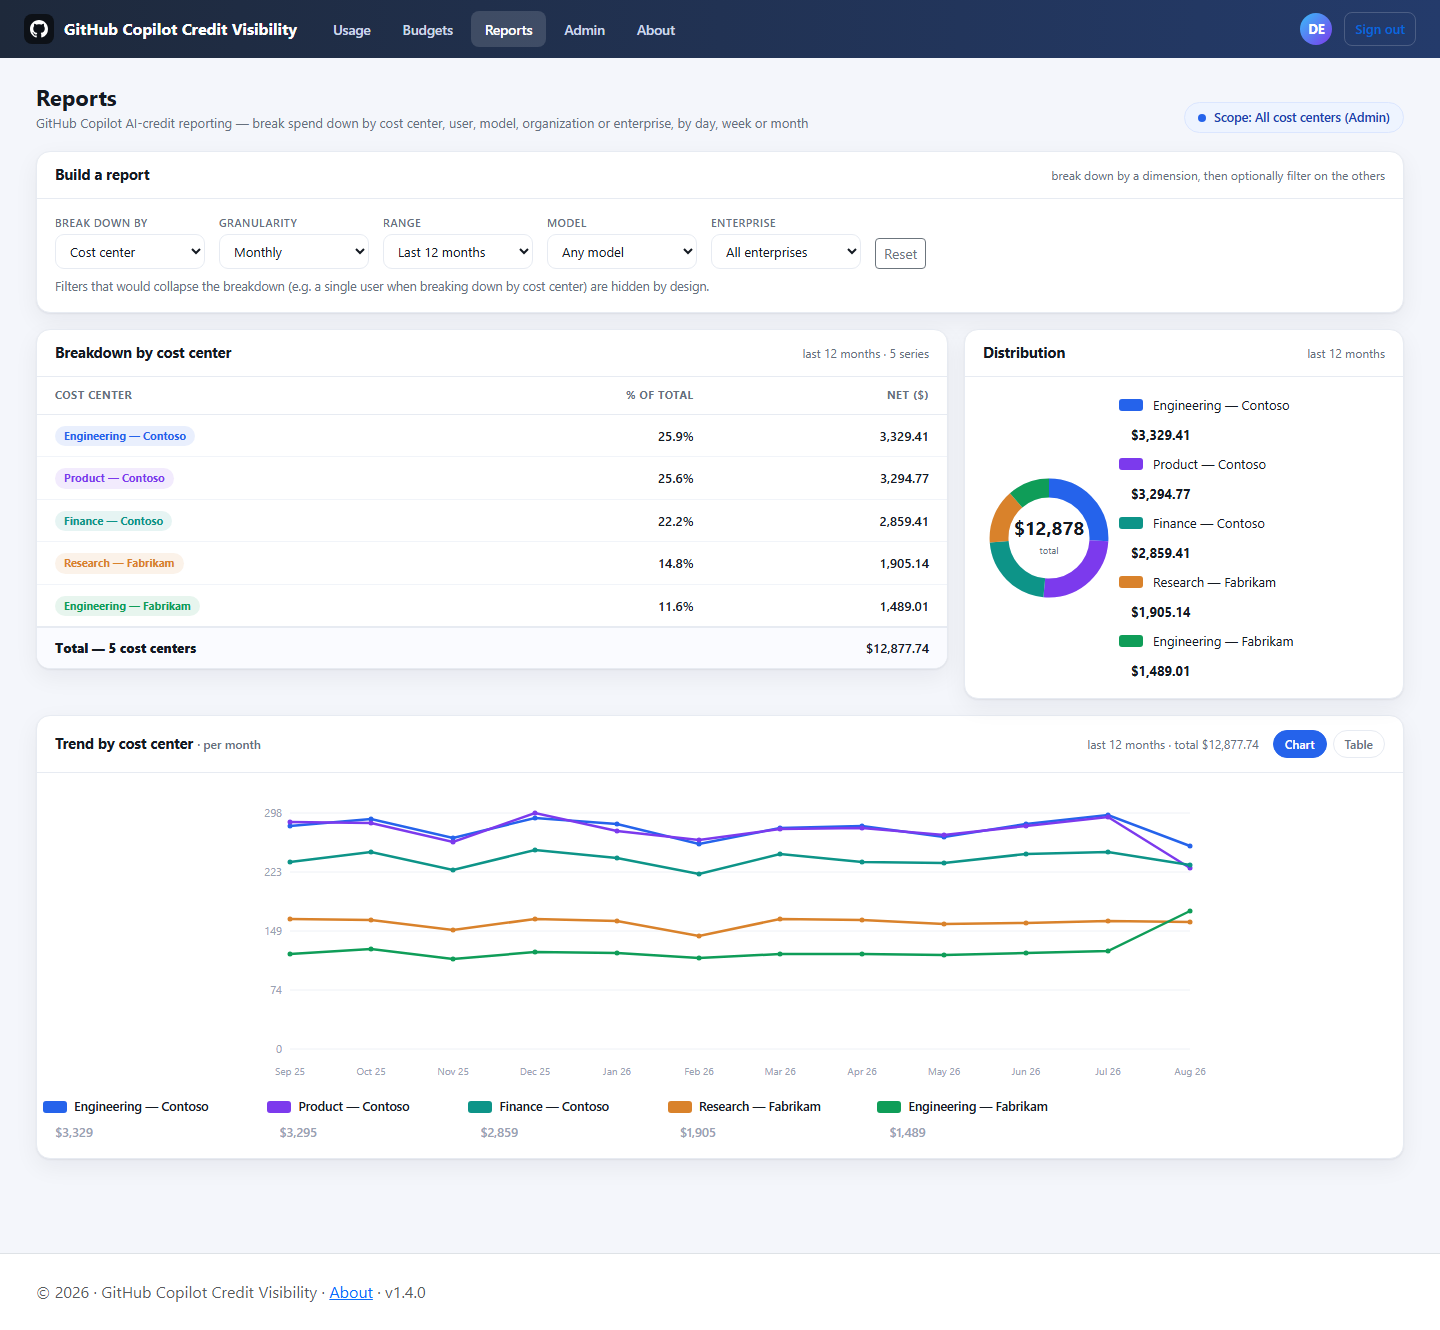
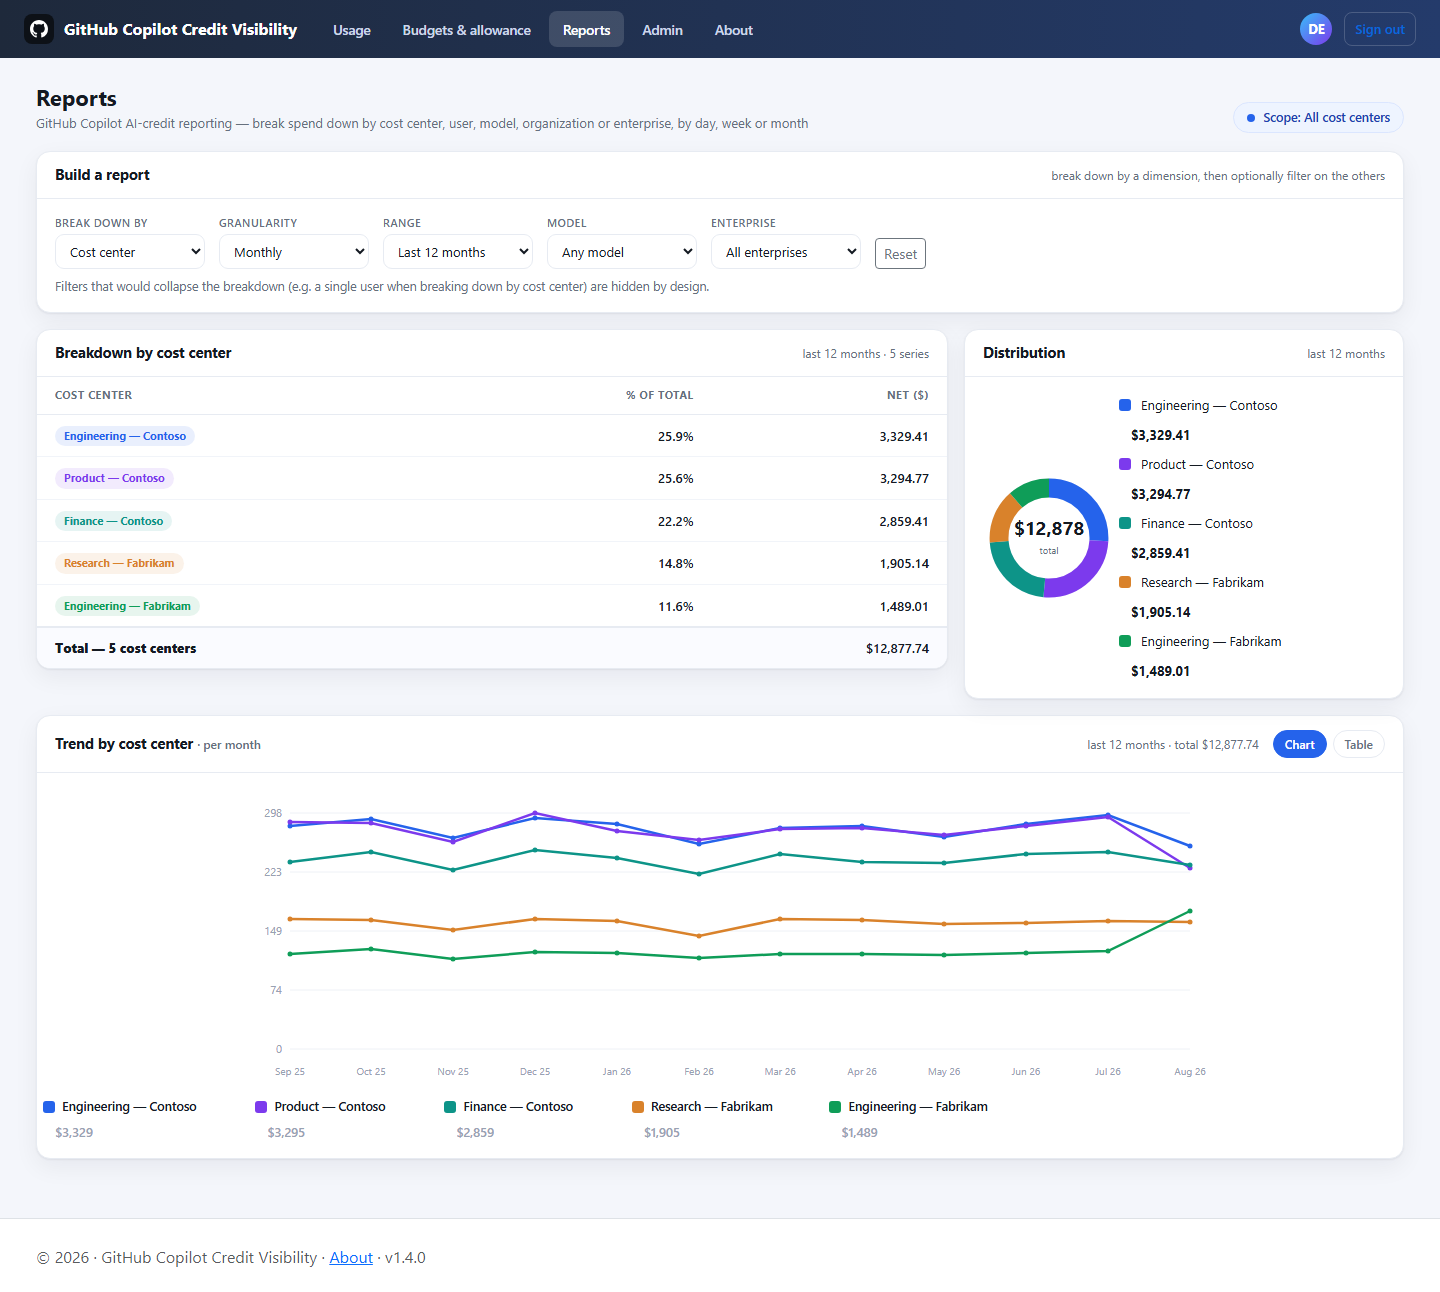
Refresh the screenshots, and fix the legend swatches they exposed
Recaptured dashboard, budgets, admin-mappings and reports against the
built-in mock data. The first three predated the allowance pool and the
role split entirely; reports only needed the scope pill, which no longer
says "(Admin)". Captured headless at the existing 1440 width, each at its
own measured content height so the footer sits under the content rather
than pinned below a screen of dead space.

Looking at the captures caught a real bug that no amount of reading the
markup would have. Legend labels were clipped mid-word — "consumed to da",
"even bu" — because these legend items reuse the class name `row`, which is
ALSO Bootstrap's grid row. Bootstrap's `.row > *` therefore applies to every
swatch and gives it `padding: calc(var(--bs-gutter-x) * .5)` on each side;
under border-box that padding cannot compress into a 12px width, so the
swatch rendered 24px and pushed its label out of the row box.

Fixed with `padding:0` on both legend swatch rules rather than by renaming
the class, which is used across the donut, model and series legends. This
also fixes the dashboard's existing cost-center and model legends, which
had the same 24px swatches all along — the bug predates this branch, it was
simply never obvious until a legend had labels long enough to collide.

diff --git a/GhcpCreditVisibility/wwwroot/css/site.css b/GhcpCreditVisibility/wwwroot/css/site.css
@@ -216,7 +216,11 @@ body { background:var(--gh-bg); color:var(--gh-ink); font-family:'Segoe UI',-app
 /* Donut / model legends */
 .gh-legend{display:flex;flex-direction:column;gap:10px;}
 .gh-legend .row{display:flex;align-items:center;gap:10px;font-size:13px;}
-.gh-legend .sw{width:12px;height:12px;border-radius:3px;flex:0 0 auto;}
+/* padding:0 is LOAD-BEARING. These legend items reuse the class name `row`, which is also
+   Bootstrap's grid row — so Bootstrap's `.row > *` applies to every swatch and gives it
+   `padding: calc(var(--bs-gutter-x) * .5)` (12px) each side. Under border-box that padding cannot
+   compress into a 12px width, so the swatch renders 24px and pushes its label out of the row. */
+.gh-legend .sw{width:12px;height:12px;border-radius:3px;flex:0 0 auto;padding:0;}
 .gh-legend .amt{margin-left:auto;font-weight:700;font-variant-numeric:tabular-nums;}
 .gh-foot{color:var(--gh-muted);font-size:12px;text-align:center;margin-top:26px;}
 .gh-cardbody{padding:16px 18px;}
@@ -268,5 +272,9 @@ body { background:var(--gh-bg); color:var(--gh-ink); font-family:'Segoe UI',-app
 .gh-filters label{font-size:11px;font-weight:600;text-transform:uppercase;letter-spacing:.4px;color:var(--gh-muted);}
 .gh-filters select{border:1px solid var(--gh-line);border-radius:9px;padding:7px 10px;font-size:13px;background:#fff;color:var(--gh-ink);min-width:150px;}
 .gh-serieslegend{display:flex;flex-wrap:wrap;gap:14px;padding:4px 18px 16px;}
-.gh-serieslegend .row{display:flex;align-items:center;gap:7px;font-size:12.5px;font-weight:600;}
-.gh-serieslegend .sw{width:12px;height:12px;border-radius:3px;}
+/* nowrap + a fixed swatch basis: without them the swatch is a growable flex item that absorbs the
+   free space (rendering ~24px wide instead of 12) and squeezes the label beside it, so entries
+   clipped mid-word — "consumed to da", "even bu". */
+.gh-serieslegend .row{display:flex;align-items:center;gap:7px;font-size:12.5px;font-weight:600;white-space:nowrap;}
+/* padding:0 for the Bootstrap `.row > *` gutter — see the note on .gh-legend .sw above. */
+.gh-serieslegend .sw{width:12px;height:12px;border-radius:3px;flex:0 0 12px;padding:0;}
